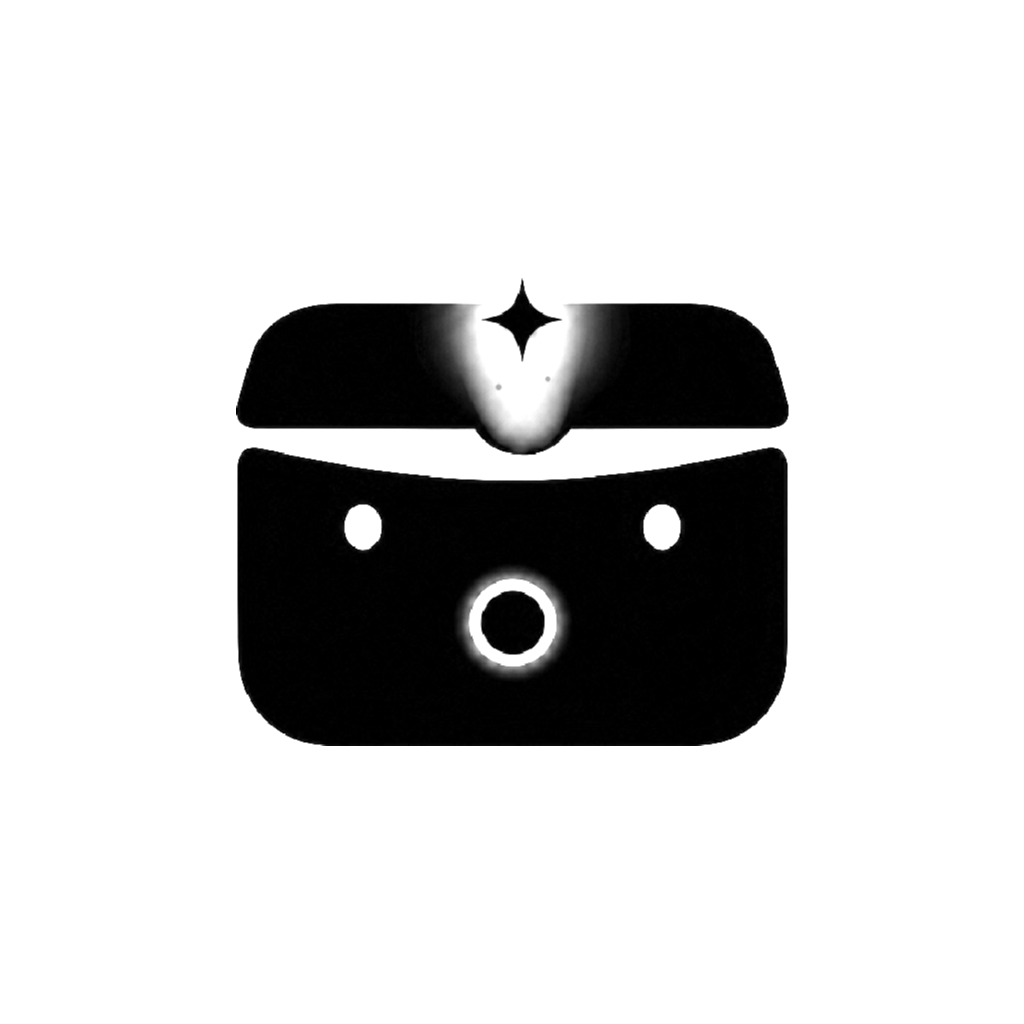
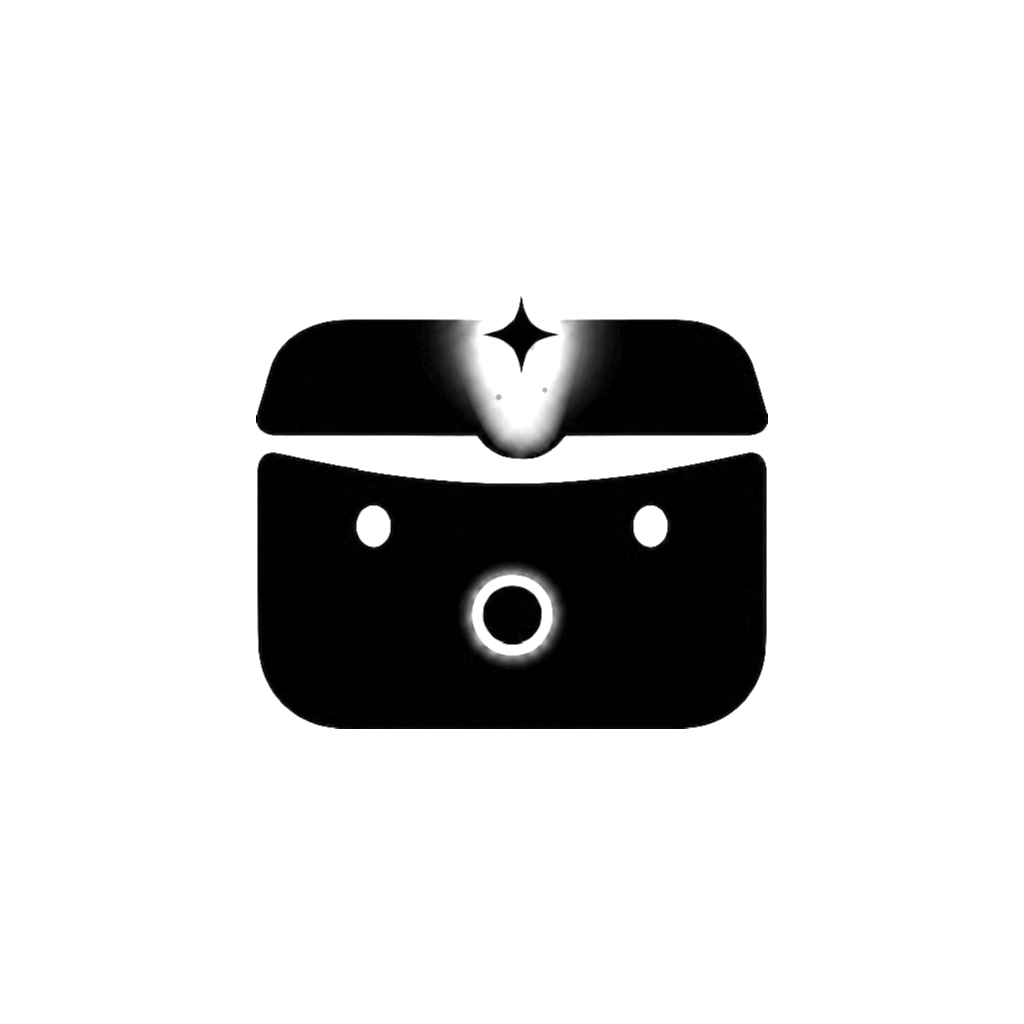
fix(mobile): 自适应前景比例收到 0.50，避免圆形遮罩切角
上一版取 0.54 时，字形角点到中心为 0.312×画布，而安全圆半径 0.33 —— 只剩 1.8% 余量。Android 规范允许启动器再放大到 1.1×（视差用），那样就会切到角。0.50 留出约 12% 余量，放大 1.1x 后仍有 3.6%。

新增桌面遮罩模拟：generate:icons 现在会输出 logs/desktop-preview.png，把自适应图标套进四种实际遮罩（圆角方 20% / 圆角方 33% / 正圆 / 方形，均按 108dp 画布的中心 66%）——'图标会不会被切'只有套进遮罩才看得出来。

Changed region(s): [[0.2188, 0.2812, 0.7812, 0.75]]

diff --git a/apps/mobile/scripts/icons.js b/apps/mobile/scripts/icons.js
@@ -359,6 +359,85 @@ function renderPreview() {
   items.forEach((it, i) => console.log(`  第${i + 1}格 ${it.note}`));
 }
 
+/**
+ * 桌面显示模拟：把自适应图标按启动器实际使用的遮罩形状裁出来。
+ *
+ * 为什么需要：`assets/icon.png` 只在旧系统与作为兜底时被使用；
+ * Android 8+ 桌面上渲染的是「adaptiveIcon.backgroundColor + foregroundImage」，
+ * 且**由启动器决定遮罩形状**（圆角方、正圆、水滴…）。
+ * 所以「图标会不会被切」只有把前景套进遮罩里才看得出来。
+ */
+function renderDesktopPreview() {
+  // 自适应前景（白字形，透明底）＋ app.json 里的靛蓝底
+  const fg = decodePng(fs.readFileSync(path.join(projectRoot, OUT_ADAPTIVE)));
+  const bg = BRAND.indigo;
+
+  const cell = 200;
+  const gap = 20;
+  const pads = 20;
+  const W = 4 * cell + 5 * gap;
+  const H = cell + gap * 2 + pads;
+  const sheet = Buffer.alloc(W * H * 4);
+  for (let i = 0; i < W * H; i++) {
+    sheet[i * 4] = 240;
+    sheet[i * 4 + 1] = 240;
+    sheet[i * 4 + 2] = 242;
+    sheet[i * 4 + 3] = 255;
+  }
+
+  // 注意：108dp 画布里实际可见的只有中心 72dp（约 66%），
+  // 这里按该比例模拟，才能真实反映「有没有被切」。
+  const visible = cell * 0.66;
+  const shapeR = visible / 2;
+  const inset = (cell - visible) / 2;
+
+  // 四种遮罩：圆角方 20% / 圆角方 33% / 正圆 / 水滴（部分启动器）
+  const masks = ["squircle20", "squircle33", "circle", "square"];
+
+  masks.forEach((kind, idx) => {
+    const bx = gap + idx * (cell + gap);
+    const by = gap + pads / 2;
+    for (let y = 0; y < cell; y++) {
+      for (let x = 0; x < cell; x++) {
+        const px = x - cell / 2;
+        const py = y - cell / 2;
+        const r0 = Math.abs(px);
+        const r1 = Math.abs(py);
+        let inside;
+        if (kind === "circle") {
+          inside = Math.hypot(px, py) <= shapeR;
+        } else if (kind === "square") {
+          inside = r0 <= shapeR && r1 <= shapeR;
+        } else {
+          const rad = visible * (kind === "squircle20" ? 0.2 : 0.33);
+          const cx = Math.min(r0, shapeR - rad);
+          const cy = Math.min(r1, shapeR - rad);
+          const dx = r0 - cx;
+          const dy = r1 - cy;
+          inside = r0 <= shapeR && r1 <= shapeR && dx * dx + dy * dy <= rad * rad;
+        }
+        if (!inside) continue;
+
+        // 自适应前景按 108dp 画布铺满，取样时保持等比
+        const u = Math.min(fg.width - 1, Math.max(0, Math.round((x / cell) * fg.width)));
+        const v = Math.min(fg.height - 1, Math.max(0, Math.round((y / cell) * fg.height)));
+        const si = (v * fg.width + u) * 4;
+        const a = fg.data[si + 3] / 255;
+        const di = ((by + y) * W + bx + x) * 4;
+        for (let c = 0; c < 3; c++) {
+          sheet[di + c] = Math.round(fg.data[si + c] * a + bg[c] * (1 - a));
+        }
+        sheet[di + 3] = 255;
+      }
+    }
+  });
+
+  const out = path.join(projectRoot, "logs/desktop-preview.png");
+  fs.writeFileSync(out, encodePng(W, H, sheet));
+  console.log(`[icons] 桌面遮罩模拟 ${W}x${H} -> logs/desktop-preview.png`);
+  console.log("  依次为：圆角方 20% / 圆角方 33% / 正圆 / 方形（均为 108dp 画布的中心 66%）");
+}
+
 function main() {
   const files = [
     // 注意：assets/icon.png **不在产出列表里**。它是设计源，只读不写。
@@ -368,16 +447,18 @@ function main() {
       // 底色由 app.json 的 adaptiveIcon.backgroundColor 提供（靛蓝 #4F46E5），
       // 所以前景用白色字形 —— 与原图标「靛蓝底 + 白匣」的观感一致。
       //
-      // 取 0.54 而不是更大：部分启动器用**圆形**遮罩，安全区是中心 66%。
-      // 这只匣子宽高比约 1.73:1，要让它的对角线也落进 66% 的圆内，
-      // 宽度上限约 57%。0.54 既安全，又与原图里字形的占比一致。
-      buf: renderGlyph(1024, 0.54, BRAND.white),
+      // 取 0.50：部分启动器用**圆形**遮罩，安全区是中心 66%。
+      // 这只匣子宽高比约 1.73:1，0.54 时角点到中心 0.312×画布、
+      // 安全圆半径 0.33 —— 只剩 1.8% 余量，而 Android 规范允许启动器
+      // 再放大到 1.1×（视差用），那样就会切到角。0.50 留出约 12% 余量，
+      // 放大 1.1× 后仍有 3.6%。见 logs/desktop-preview.png。
+      buf: renderGlyph(1024, 0.5, BRAND.white),
       note: "自适应图标前景：透明底 + 白色匣形（叠在靛蓝底上，形状由系统裁切）",
     },
     {
       out: OUT_MONO,
       // 与自适应前景同比例：两者会被系统放在同一遮罩下，比例不一致会「跳大小」
-      buf: renderGlyph(1024, 0.54, BRAND.black),
+      buf: renderGlyph(1024, 0.5, BRAND.black),
       note: "Android 13+ 主题图标：透明底 + 纯黑匣形（由系统着色）",
     },
     {
@@ -405,9 +486,11 @@ function main() {
     console.log(`  · ${f.out}  ${(f.buf.length / 1024).toFixed(1)} KB  ${f.note}`);
   }
 
-  // 顺带出合成预览——白字形不合成根本看不见，等于没验证
+  // 顺带出两张预览——白字形不合成根本看不见，等于没验证
   console.log("");
   renderPreview();
+  console.log("");
+  renderDesktopPreview();
   return 0;
 }
 
@@ -422,6 +505,7 @@ module.exports = {
   renderGlyph,
   renderSeal,
   renderPreview,
+  renderDesktopPreview,
 };
 
 if (require.main === module) {
